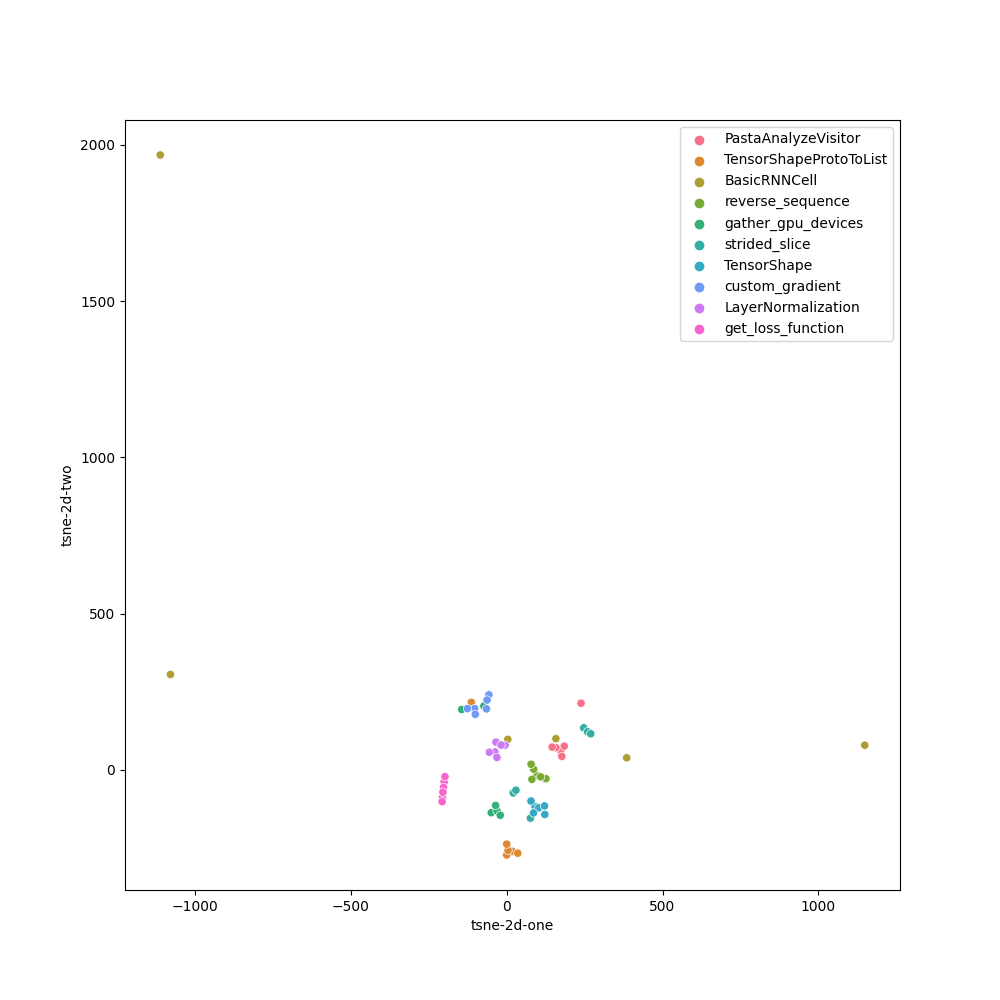
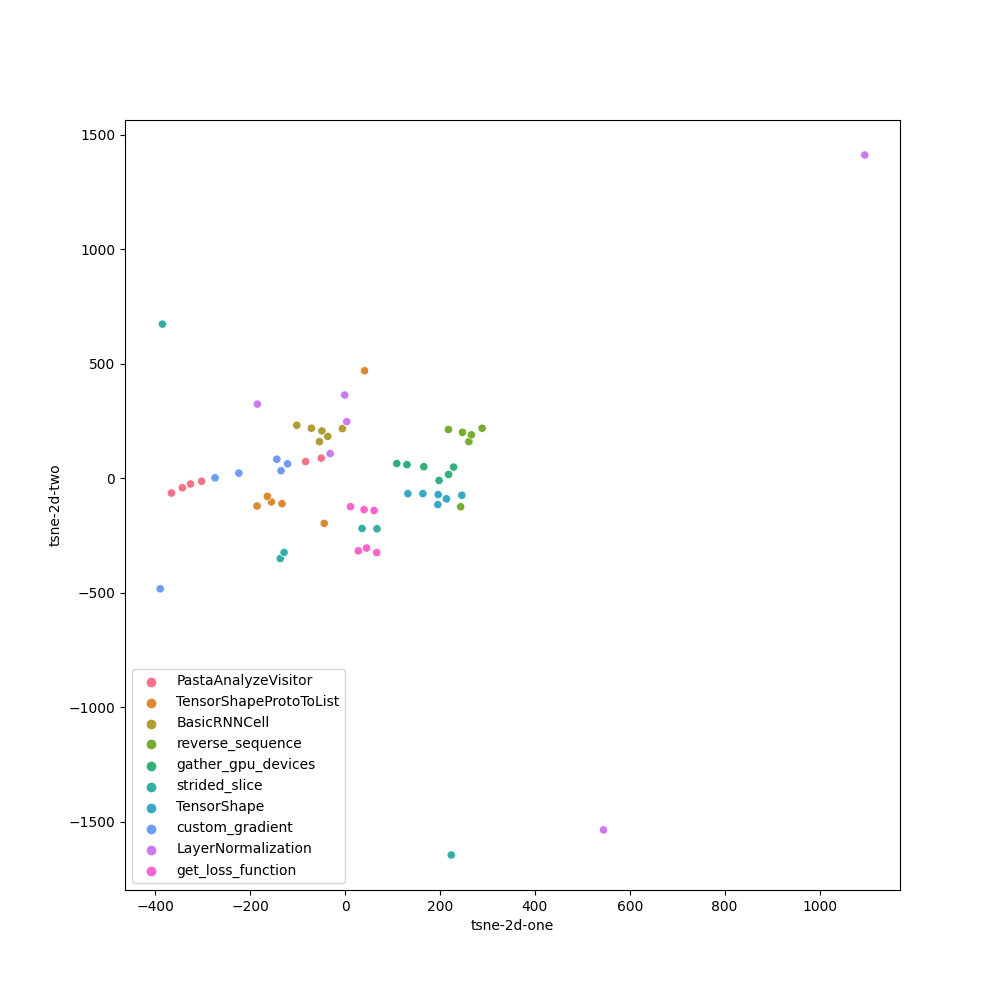
Fix get_embedding_vectors_lsi

diff --git a/prec-recall.py b/prec-recall.py
@@ -1,3 +1,4 @@
+from gensim.similarities import MatrixSimilarity
 from gensim.models.doc2vec import Doc2Vec
 from gensim.corpora import MmCorpus
 from gensim.models import LsiModel
@@ -71,12 +72,12 @@ def get_embedding_vectors_lsi(query_data):
 
     lsi = LsiModel.load("utils/lsi/model")
     corpus_lsi = MmCorpus("utils/lsi/corpus_lsi")
+    lsi_index = MatrixSimilarity.load("utils/lsi/lsi.index")
 
     embeddings_lsi = []
 
     for query in queries:
         query_bow = search_data.process_query(query)
-        top_5, lsi_index = search_data.lsi_query(query)
         vector = lsi[query_bow]
         sims = abs(lsi_index[vector])
         embeddings = [lsi[query_bow]]
@@ -107,8 +108,8 @@ def get_avg_precision_recall(query_data, search_engines):
         engine_precision = [d["top_5_" + search_engine + "_prec"] for d in query_data]
         engine_recall = [d["top_5_" + search_engine + "_correct"] for d in query_data]
 
-        avg_precision = sum(engine_precision) / 10
-        avg_recall = sum(engine_recall) / 10
+        avg_precision = sum(engine_precision) / len(engine_precision)
+        avg_recall = sum(engine_recall) / len(engine_recall)
 
         search_engines_data.append({
             "search_engine": search_engine,
@@ -227,7 +228,9 @@ def main():
 
     ground_truth_dict_list = ground_truth_txt_to_dict()
     query_data = query_search_engine(ground_truth_dict_list, search_engines)
+
     measure_precision_and_recall(query_data, search_engines)
+
     lsi_embeddings = get_embedding_vectors_lsi(query_data)
     doc2vec_embeddings = get_embedding_vectors_doc2vec(query_data)
     plot_tsne(doc2vec_embeddings, query_data, "doc2vec")

diff --git a/search-data.py b/search-data.py
@@ -76,6 +76,7 @@ def lsi_query(query):
     vec_lsi = lsi[tfidf[query_bow]]
 
     lsi_index = MatrixSimilarity(corpus_lsi)
+    lsi_index.save("utils/lsi/lsi.index")
     similarity = lsi_index[vec_lsi]
 
     top_5_index = get_top_5_index(similarity)
